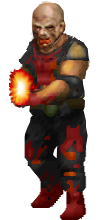
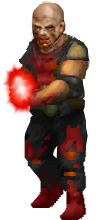
added brut entity, fix infinite damage

Changed region(s): [[0.03, 0.2727, 0.42, 0.5182]]

diff --git a/settings.py b/settings.py
@@ -157,7 +157,7 @@ ENTITIES_PARAM = {
         'side': 40,
         'action_dist': 400,
         'heath_point': 100,
-        'action_animation': [f'{IMAGES_PATH}entities\\brain_evil\\action\\{path}.png' for path in range(7)],
+        'action_animation': [f'{IMAGES_PATH}entities\\brain_evil\\action\\{path}.png' for path in range(10)],
         'damage': 8,
         'speed': 4,
         'chance': 0.5
@@ -203,6 +203,27 @@ ENTITIES_PARAM = {
         'damage': 18,
         'speed': 5,
         'chance': 0.4
+    },
+    'soldier_brut': {
+        'type': STATUS_ENTITIES.NPC,
+        'sprites': [f'{IMAGES_PATH}entities\\soldier1\\default\\{path}.png' for path in range(8)],
+        'animation': [f'{IMAGES_PATH}entities\\soldier1\\animation\\{path}.png' for path in range(1)],
+        'death_animation': [f'{IMAGES_PATH}entities\\soldier1\\death\\{path}.png' for path in range(10)],
+        'action_animation': [f'{IMAGES_PATH}entities\\soldier1\\action\\{path}.png' for path in range(4)],
+        'viewing_angles': True,
+        'angle': 0,
+        'shift': 0.8,
+        'scale': (0.7, 0.8),
+        'side': 50,
+        'dead_shift': 0.6,
+        'animation_dist': 800,
+        'animation_speed': 14,
+        'action_dist': 180,
+        'blocked': True,
+        'heath_point': 100,
+        'damage': 20,
+        'speed': 5,
+        'chance': 0.6
     },
     'health_pack': {
         'type': STATUS_ENTITIES.HEALTH_PACK,

diff --git a/entities/main_player/main_player.py b/entities/main_player/main_player.py
@@ -20,6 +20,8 @@ class MainPlayer:
         self.shot = False
         self.collision_objs = list()
         self.entity_service = None
+        self.immortal = 40
+        self.immortal_count = 0
 
     @property
     def pos(self) -> tuple:
@@ -61,6 +63,8 @@ class MainPlayer:
         self.mouse_control()
         self.rect.center = self.x, self.y
         self.angle %= DOUBLE_PI
+        if self.immortal_count > 0:
+            self.immortal_count -= 1
         pygame.event.clear()
 
     def keys_control(self) -> None:
@@ -92,12 +96,14 @@ class MainPlayer:
         self.angle += numpy.clip((pygame.mouse.get_rel()[0]) / 200, -0.2, .2)
 
     def damage(self, damage):
-        if self.armor_points > 0:
-            self.armor_points -= int(damage/100*80)
-            if self.armor_points < 0: self.armor_points = 0
-            self.health_points -= int(damage/100*20)
-        else:
-            self.health_points -= int(damage)
+        if self.immortal_count == 0:
+            if self.armor_points > 0:
+                self.armor_points -= int(damage/100*80)
+                if self.armor_points < 0: self.armor_points = 0
+                self.health_points -= int(damage/100*20)
+            else:
+                self.health_points -= int(damage)
+            self.immortal_count = self.immortal
 
     def heal(self, points):
         self.health_points = min(self.health_points + points, 100)
